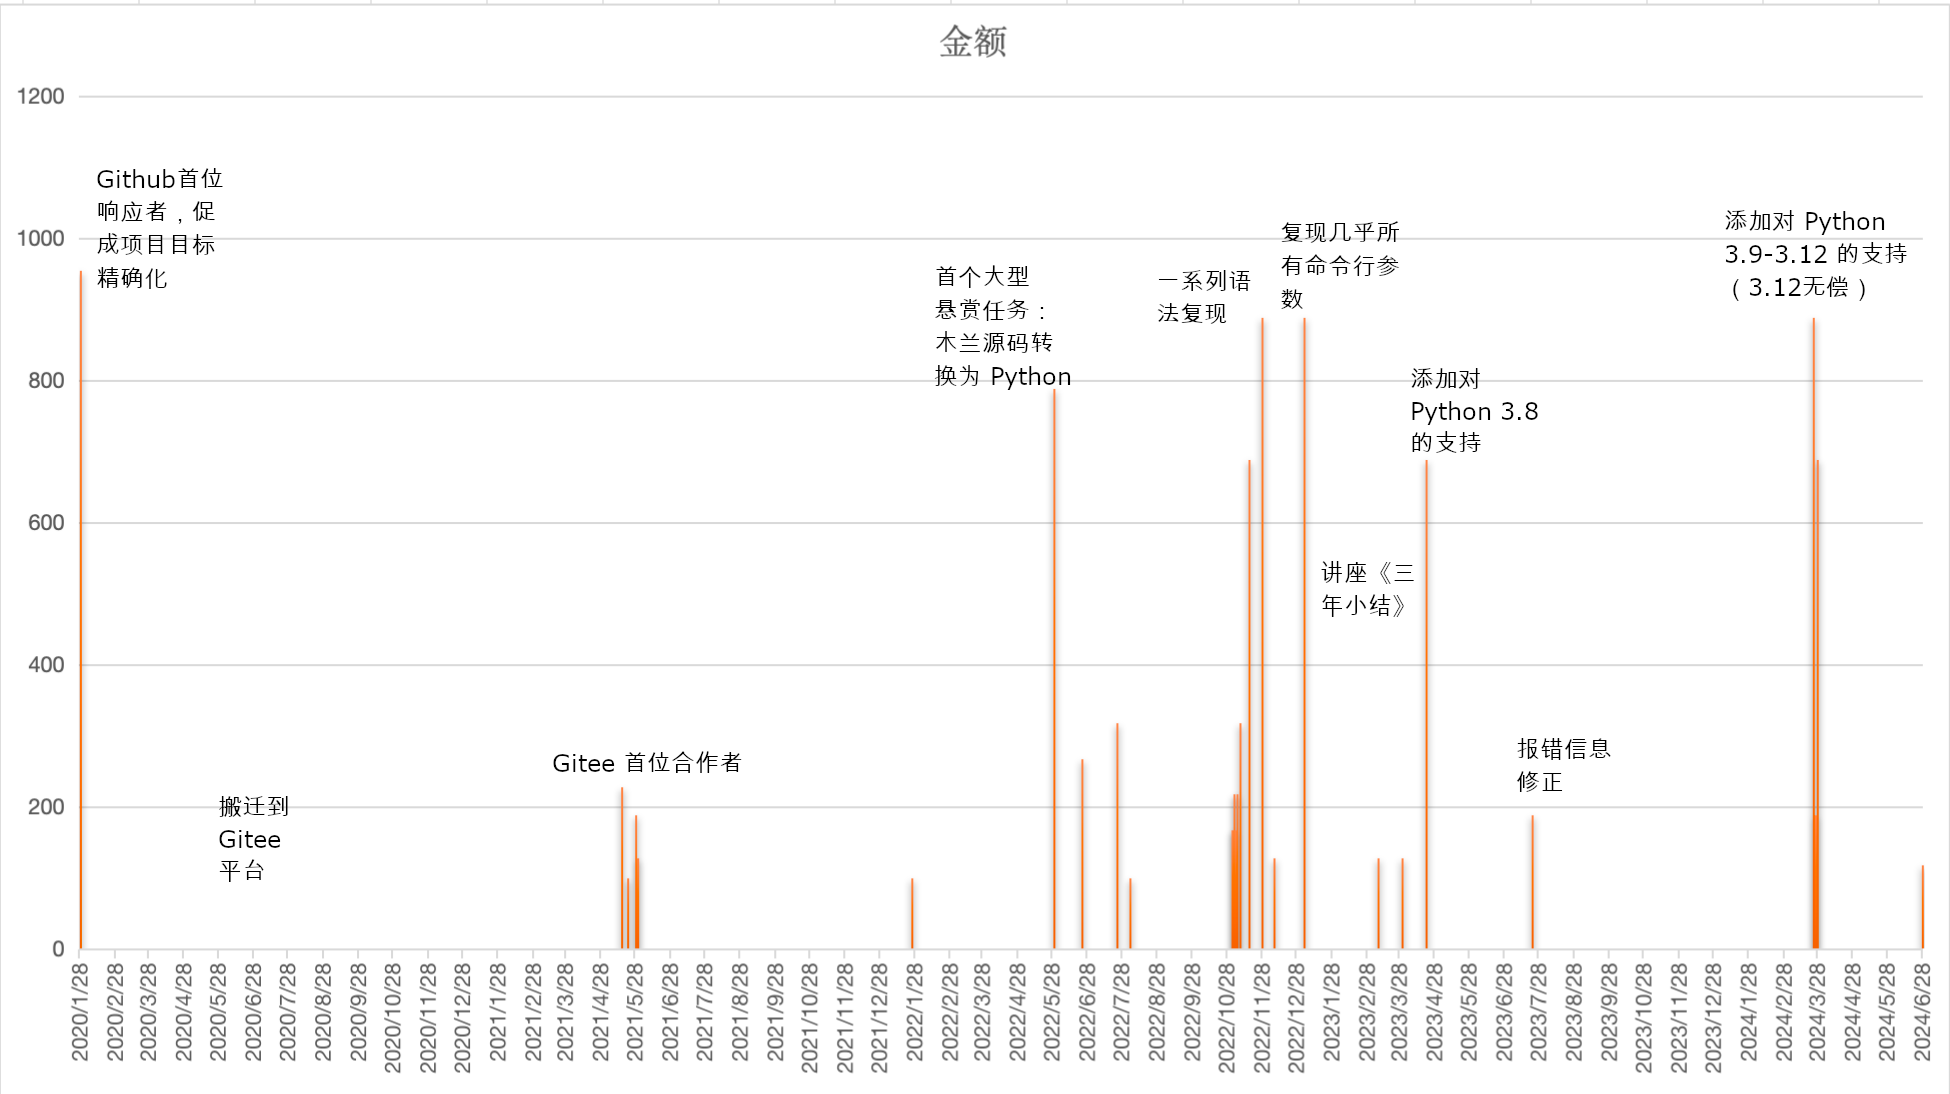
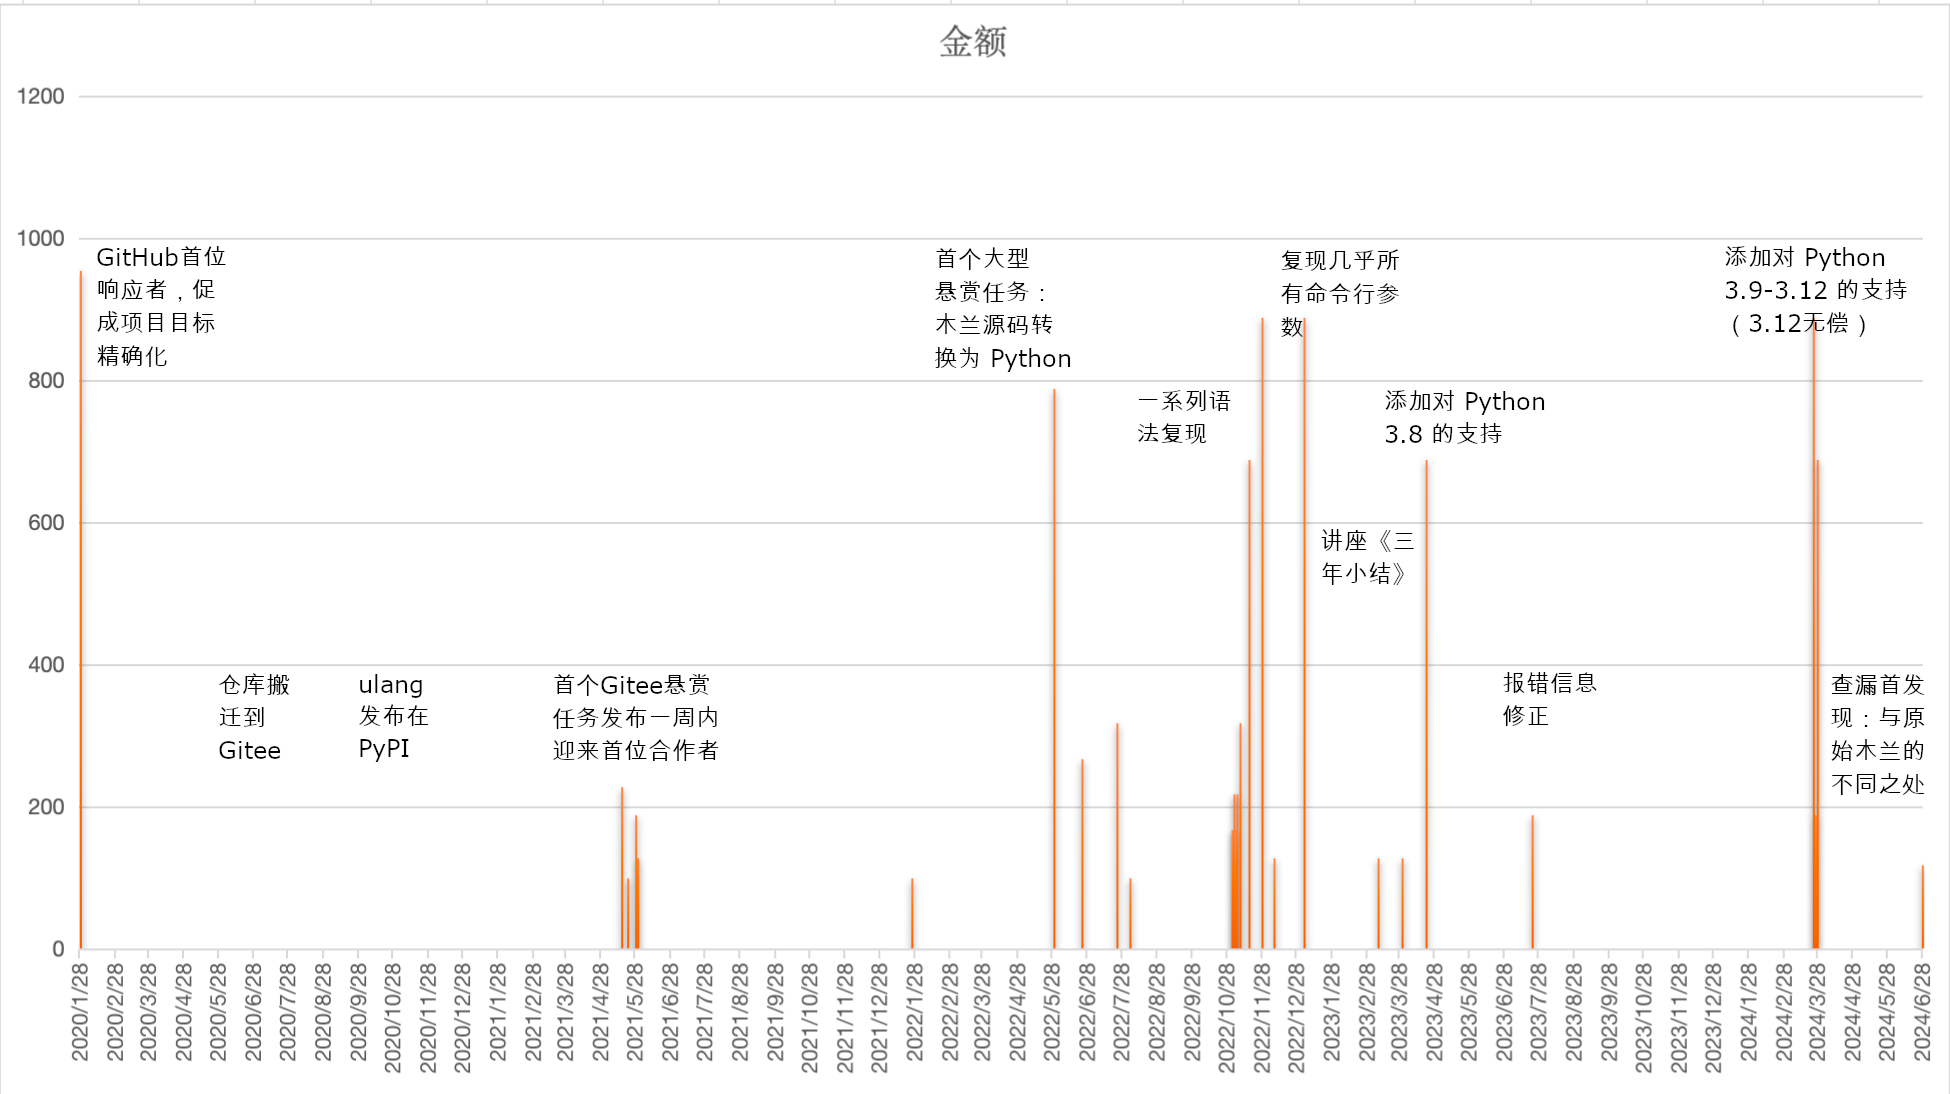
润色; 修正账目

diff --git a/进展小结/2025-04-15-项目介绍.md b/进展小结/2025-04-15-项目介绍.md
@@ -9,7 +9,7 @@
 
 项目地址：https://gitee.com/MulanRevive/mulan-rework
 
-重现 2020 年报道后即被说成「Python 套壳」、「换皮」的木兰编程语言的所有功能。揣摩设计思路、验证实现技术路径及其可持续维护性。为低代价实现原创编程语言尤其是前端部分提供标本，也通过悬赏任务为开源合作探索新模式。
+旨在重现 2020 年初报道后即被指为「Python 套壳」、「换皮」的木兰编程语言工具的所有功能。揣摩设计思路、验证实现技术路径及其可持续维护性。为低代价实现原创编程语言尤其是前端部分提供标本，也通过悬赏任务为开源合作探索新模式。
 
 ### 历程
 
@@ -19,7 +19,7 @@
 
 2020 年六月项目搬迁到开源中国的 Gitee 平台。
 
-2023 年一月复现几乎所有命令行选项，作了讲座 [三年小结](https://www.zhihu.com/lives/1596877608825921536)。
+至 2023 年一月复现几乎所有命令行选项，作了讲座 [三年小结](https://www.zhihu.com/lives/1596877608825921536)。
 
 继 2023 年四月添加对 Python 3.8 的支持后，2024 年陆续添加了对 Python 3.9-3.12 的支持。
 
@@ -29,7 +29,7 @@
 
 合作体会：
 
-- 平台支持之重要：Gitee 悬赏功能于 2021年四月底上线，合作从此加速
+- 平台支持之重要：Gitee 悬赏功能于 2021 年四月底上线，合作从此加速
 - 任务细化，确保可控
 - 团队之珍贵
 
